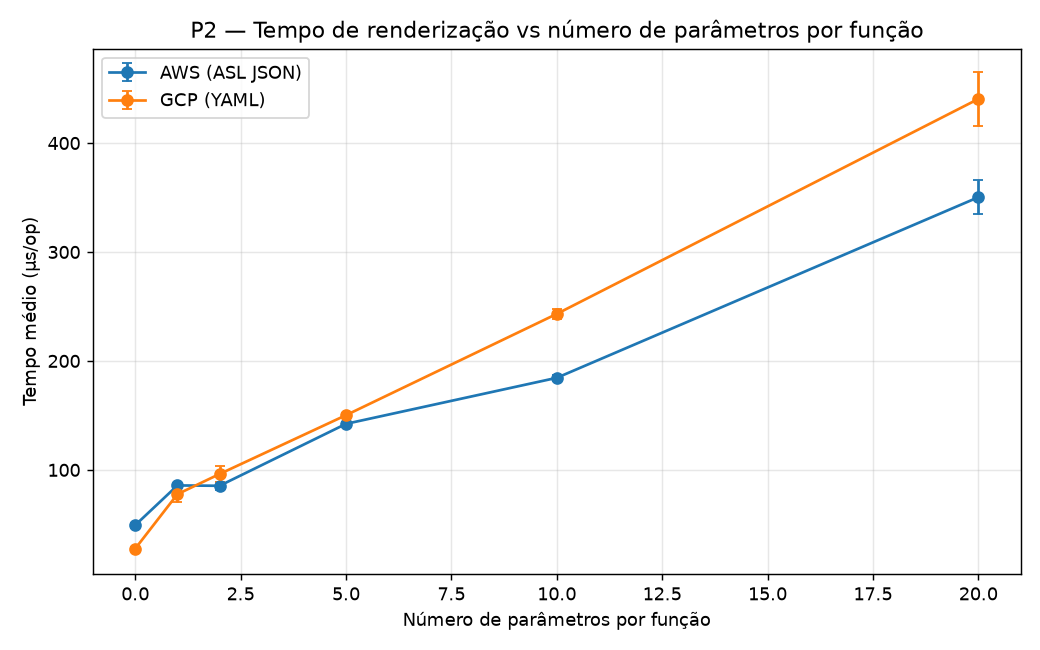
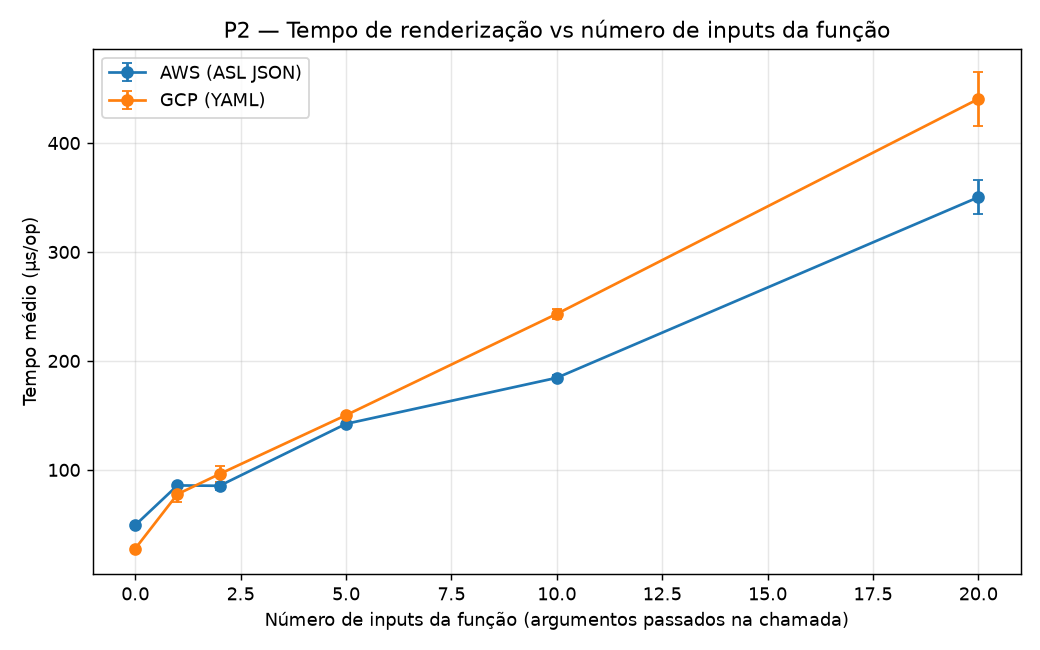
Reframe P2 as "number of function inputs" (not HTTP call params)
Clarifies P2 per the supervisors' original intent: a function receiving more
inputs. In the rendered workflow the function's source signature is absent —
each function input materializes as an argument passed in the call — so P2's
"parameter count" is exactly the number of function inputs. Reworded the
RESULTS.md P2 section, graph title/axis and the TESTING.md row accordingly
(the benchmark class/generator names are unchanged).

Claude-Session: https://claude.ai/code/session_01LkCReDvpY5uFJWnaf1CzCP

Changed region(s): [[0.2462, 0.9231, 0.8308, 0.9846], [0.1846, 0.0308, 0.8923, 0.0615]]

diff --git a/omni-flow-main/benchmark/results/plot_benchmarks.py b/omni-flow-main/benchmark/results/plot_benchmarks.py
@@ -30,8 +30,8 @@ PLOTS = {
     ),
     "BenchmarkRenderingByParameterCount": (
         "P2_rendering_by_parameters.png",
-        "P2 — Tempo de renderização vs número de parâmetros por função",
-        "Número de parâmetros por função",
+        "P2 — Tempo de renderização vs número de inputs da função",
+        "Número de inputs da função (argumentos passados na chamada)",
         {"renderToAmazon": "AWS (ASL JSON)", "renderToGoogle": "GCP (YAML)"},
     ),
     "BenchmarkInternalCallResolution": (

diff --git a/omni-flow-main/benchmark/results/RESULTS.md b/omni-flow-main/benchmark/results/RESULTS.md
@@ -55,9 +55,14 @@ de uma travessia em passagem única com acumulação por `StringBuilder`.
 
 ---
 
-## P2 — Efeito do número de parâmetros por função
+## P2 — Efeito do número de *inputs* da função
 
-| Parâmetros | AWS (µs) | GCP (µs) |
+Pergunta dos orientadores: **uma função que recebe mais *inputs* demora mais a renderizar?** Nota
+de modelação: no workflow renderizado não entra a assinatura Java/Python da função — cada **input
+da função materializa-se como um argumento passado na chamada** (parâmetro de *query*/corpo da
+`CallContext`). Portanto varia-se aqui o número de inputs por chamada, com o número de funções fixo.
+
+| Inputs por função | AWS (µs) | GCP (µs) |
 |---:|---:|---:|
 | 0 | 49,3 | 27,7 |
 | 1 | 85,7 | 77,7 |
@@ -65,23 +70,26 @@ de uma travessia em passagem única com acumulação por `StringBuilder`.
 | 10 | 184,5 | 243,2 |
 | 20 | 350,3 | 440,5 |
 
-![P2 — Tempo de renderização vs número de parâmetros](P2_rendering_by_parameters.png)
+![P2 — Tempo de renderização vs número de inputs da função](P2_rendering_by_parameters.png)
 
-**Resultado.** O número de parâmetros afeta o tempo de renderização de forma também
-**aproximadamente linear**. O GCP parte de um valor mais baixo (sem parâmetros) mas cresce mais
-depressa, ultrapassando o AWS a partir de ~5 parâmetros.
+**Resultado.** **Sim** — o número de inputs afeta o tempo de renderização de forma
+**aproximadamente linear** (~15 µs por input adicional). O GCP parte de um valor mais baixo (função
+sem inputs) mas cresce mais depressa, ultrapassando o AWS a partir de ~5 inputs.
 
-**Justificação.** Cada parâmetro (entrada de *query*, cabeçalho ou campo do corpo) é renderizado
-individualmente, com resolução de termo e emissão de um par chave-valor. Com N fixo, o trabalho
-descreve-se por T(p) = N·(c·p + k): o termo `c·p` é o custo dos parâmetros e `N·k` é o custo-base
-por chamada (a estrutura do estado sem parâmetros). Daqui resulta a **linearidade em p** e a
-**interceção positiva em p = 0**. A **base maior no AWS** (k_AWS > k_GCP) explica-se pelo facto de
-a Amazon States Language emitir, por chamada, mais estrutura fixa (`Type`, `Resource`,
-`Parameters`, `ResultSelector`, `ResultPath`) do que o `call:`/`args:` do GCP. O **declive maior
-no GCP** (c_GCP > c_AWS) reflete um custo por parâmetro superior na serialização YAML. Como uma
-reta tem base maior e a outra declive maior, a **interseção** por volta dos 5 parâmetros é uma
-consequência matemática inevitável. Confirma-se que o número de parâmetros constitui uma segunda
-dimensão de custo, independente do número de funções.
+**Justificação.** Cada input é escrito individualmente na chamada (resolução do termo + emissão de
+um par chave-valor no argumento). Com N funções fixo, o trabalho descreve-se por T(p) = N·(c·p + k):
+o termo `c·p` é o custo dos inputs e `N·k` é o custo-base por chamada (a estrutura do estado sem
+inputs). Daqui resulta a **linearidade em p** e a **interceção positiva em p = 0**. A **base maior
+no AWS** (k_AWS > k_GCP) explica-se pelo facto de a Amazon States Language emitir, por chamada, mais
+estrutura fixa (`Type`, `Resource`, `Parameters`, `ResultSelector`, `ResultPath`) do que o
+`call:`/`args:` do GCP. O **declive maior no GCP** (c_GCP > c_AWS) reflete um custo por input
+superior na serialização YAML. Como uma reta tem base maior e a outra declive maior, a
+**interseção** por volta dos 5 inputs é uma consequência matemática inevitável. Confirma-se que o
+número de inputs da função constitui uma segunda dimensão de custo, independente do número de
+funções.
+
+> Nota de implementação: o benchmark chama-se `BenchmarkRenderingByParameterCount` e o gerador
+> `callWithParameters(p)` — "parameter" aqui designa cada **input da função** passado na chamada.
 
 ---
 

diff --git a/omni-flow-main/TESTING.md b/omni-flow-main/TESTING.md
@@ -128,7 +128,7 @@ CSV (`-rf csv`) e ajustar uma curva aos pontos.
 | Benchmark | Pergunta / objetivo | Variável | O que se espera |
 |---|---|---|---|
 | `metrics/BenchmarkRenderingScalability.kt` (**P1**) | Como degrada o tempo de **renderização** com o número de funções? | `@Param n ∈ {1..200}` | Tempo cresce com N; caracterizar linear vs. supralinear (atenção a O(N²) caso haja concatenação de strings). |
-| `metrics/BenchmarkRenderingByParameterCount.kt` (**P2**) | O número de **parâmetros por função** afeta a renderização? | `@Param p ∈ {0..20}`, N fixo | Crescimento linear em P, com declive menor que o de N. |
+| `metrics/BenchmarkRenderingByParameterCount.kt` (**P2**) | O número de **inputs da função** (materializados como argumentos passados na chamada) afeta a renderização? | `@Param p ∈ {0..20}`, N fixo | Crescimento linear em p (~15 µs por input). |
 | `metrics/BenchmarkInternalCallResolution.kt` (**P3**) | Qual o **custo da unificação** (passo de resolução de funções internas)? | `@Param n`, interno vs. externo | Linear e pequeno; internas > externas pelo custo das *lookups* + cópia da árvore (registo pré-carregado em memória — sem I/O no caminho quente). |
 | `metrics/BenchmarkRenderingAwsVsGcp.kt` (**P4**) | O renderizador **AWS** tem custo comparável ao **GCP**? | renderer AWS vs. GCP, ao longo de N | Mesma ordem de grandeza; observação, não veredicto. |
 | `metrics/BenchmarkRenderingByNesting.kt` (**P5**) | O que degrada: o **número** de funções ou a **complexidade estrutural**? | profundidade de aninhamento, total de passos fixo | Distinguir efeito do nº total de nós vs. profundidade; aninhamento muito profundo pode revelar limites de recursão. |
